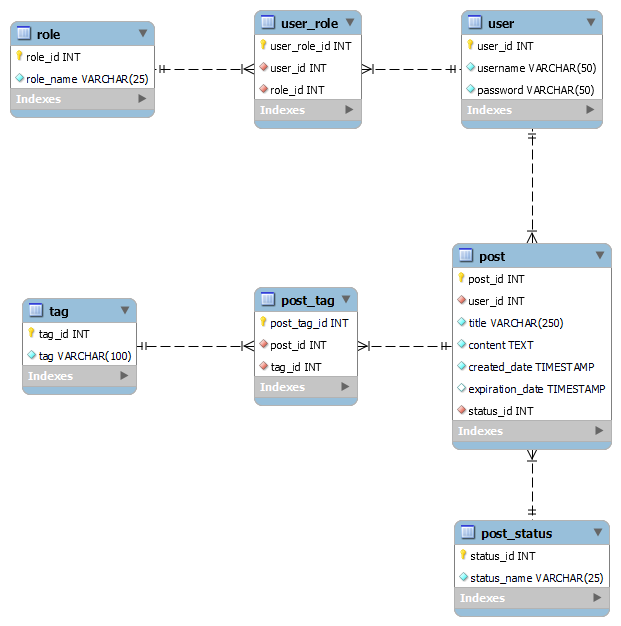
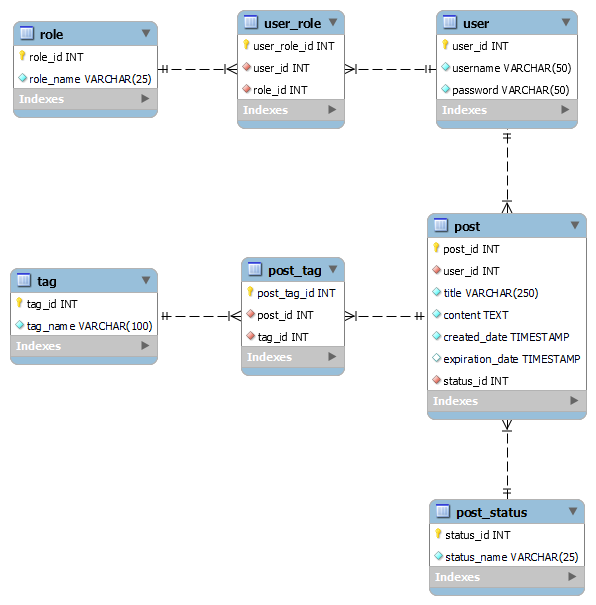
update to tag table (tag_name instead of just tag), updated ERD and entity, changed in all related places. tags working on content page

Changed region(s): [[0.0, 0.0, 0.9966, 0.9818], [0.0, 0.4165, 0.302, 0.6545], [0.3624, 0.4165, 0.604, 0.6545]]

diff --git a/src/main/resources/templates/content.html b/src/main/resources/templates/content.html
@@ -61,7 +61,9 @@
                         <tr class="bg-info">
                             <th style="width: auto"><strong>Created Date</strong></th>
                             <th style="width: auto"><strong>Title</strong></th>
-                            <th style="width: auto"><strong>Post Body</strong></th>
+                            <th style="width: auto"><strong>Post Content</strong></th>
+                            <th style="width: auto"><strong>Tags</strong></th>
+
                         </tr>
                     </thead>
                     <tbody>
@@ -69,6 +71,10 @@
                             <th th:text="${post.created_date}">Created_Date</th>
                             <td th:text="${post.title}">Title</td>
                             <td th:text="${post.content}">Content</td>
+                            <td>
+                                <span th:each="tag,iterState : ${post.tags}"
+                                      th:text="${tag.tag_name} + ${!iterState.last ? ', ' : ''}"></span>
+                            </td>
                         </tr>
                     </tbody>
                 </table>

diff --git a/src/test/java/com/ContentMgtSystem/Blog/repositories/Tests/PostRepositoryTest.java b/src/test/java/com/ContentMgtSystem/Blog/repositories/Tests/PostRepositoryTest.java
@@ -90,10 +90,10 @@ public class PostRepositoryTest {
         Timestamp newTimeStamp2 = Timestamp.valueOf(testTimestampExpiration);
 
         Tag tag1 = new Tag();
-        tag1.setTag("TestTag1");
+        tag1.setTag_name("TestTag1");
         tagRepository.save(tag1);
         Tag tag2 = new Tag();
-        tag2.setTag("TestTag2");
+        tag2.setTag_name("TestTag2");
         tagRepository.save(tag2);
 
         List <Tag> allTags = tagRepository.findAll();
@@ -125,10 +125,10 @@ public class PostRepositoryTest {
         Timestamp newTimeStamp22 = Timestamp.valueOf(testTimestampExpiration2);
 
         Tag tag12 = new Tag();
-        tag12.setTag("TestTag12");
+        tag12.setTag_name("TestTag12");
         tagRepository.save(tag12);
         Tag tag22 = new Tag();
-        tag22.setTag("TestTag22");
+        tag22.setTag_name("TestTag22");
         tagRepository.save(tag22);
 
         List <Tag> allTags2 = tagRepository.findAll();
@@ -173,10 +173,10 @@ public class PostRepositoryTest {
         Timestamp newTimeStamp2 = Timestamp.valueOf(testTimestampExpiration);
 
         Tag tag1 = new Tag();
-        tag1.setTag("TestTag1");
+        tag1.setTag_name("TestTag1");
         tagRepository.save(tag1);
         Tag tag2 = new Tag();
-        tag2.setTag("TestTag2");
+        tag2.setTag_name("TestTag2");
         tagRepository.save(tag2);
 
         List<Tag> allTags = tagRepository.findAll();
@@ -208,10 +208,10 @@ public class PostRepositoryTest {
         Timestamp newTimeStamp22 = Timestamp.valueOf(testTimestampExpiration2);
 
         Tag tag12 = new Tag();
-        tag12.setTag("TestTag12");
+        tag12.setTag_name("TestTag12");
         tagRepository.save(tag12);
         Tag tag22 = new Tag();
-        tag22.setTag("TestTag22");
+        tag22.setTag_name("TestTag22");
         tagRepository.save(tag22);
 
         List <Tag> allTags2 = tagRepository.findAll();
@@ -260,10 +260,10 @@ public class PostRepositoryTest {
         Timestamp newTimeStamp2 = Timestamp.valueOf(testTimestampExpiration);
 
         Tag tag1 = new Tag();
-        tag1.setTag("TestTag1");
+        tag1.setTag_name("TestTag1");
         tagRepository.save(tag1);
         Tag tag2 = new Tag();
-        tag2.setTag("TestTag2");
+        tag2.setTag_name("TestTag2");
         tagRepository.save(tag2);
 
         List <Tag> allTags = tagRepository.findAll();
@@ -295,10 +295,10 @@ public class PostRepositoryTest {
         Timestamp newTimeStamp22 = Timestamp.valueOf(testTimestampExpiration2);
 
         Tag tag12 = new Tag();
-        tag12.setTag("TestTag12");
+        tag12.setTag_name("TestTag12");
         tagRepository.save(tag12);
         Tag tag22 = new Tag();
-        tag22.setTag("TestTag22");
+        tag22.setTag_name("TestTag22");
         tagRepository.save(tag22);
 
         List <Tag> allTags2 = tagRepository.findAll();

diff --git a/src/main/java/com/ContentMgtSystem/Blog/entities/Tag.java b/src/main/java/com/ContentMgtSystem/Blog/entities/Tag.java
@@ -12,7 +12,7 @@ public class Tag {
     private int tag_id;
 
     @Column(nullable = false)
-    private String tag;
+    private String tag_name;
 
     @ManyToMany(mappedBy = "tags")
     private List<Post> posts;
@@ -25,12 +25,12 @@ public class Tag {
         this.tag_id = tag_id;
     }
 
-    public String getTag() {
-        return tag;
+    public String getTag_name() {
+        return tag_name;
     }
 
-    public void setTag(String tag) {
-        this.tag = tag;
+    public void setTag_name(String tag_name) {
+        this.tag_name = tag_name;
     }
 
     public List<Post> getPosts() {
@@ -47,12 +47,12 @@ public class Tag {
         if (o == null || getClass() != o.getClass()) return false;
         Tag tag1 = (Tag) o;
         return tag_id == tag1.tag_id
-                && Objects.equals(tag, tag1.tag)
+                && Objects.equals(tag_name, tag1.tag_name)
                 && Objects.equals(posts, tag1.posts);
     }
 
     @Override
     public int hashCode() {
-        return Objects.hash(tag_id, tag, posts);
+        return Objects.hash(tag_id, tag_name, posts);
     }
 }

diff --git a/src/main/java/com/ContentMgtSystem/Blog/controllers/MainController.java b/src/main/java/com/ContentMgtSystem/Blog/controllers/MainController.java
@@ -85,6 +85,7 @@ public class MainController {
     public String viewAllPosts(HttpServletRequest request, Model model) {
         model.addAttribute("posts",
                 postRepository.findAllNotExpired());
+        model.addAttribute("tags", tagRepository.findAll());
         navDisplay(model, request);
         return "content";
     }
@@ -128,7 +129,7 @@ public class MainController {
             for (String tagString : tagArray) {
                 if (tagRepository.findStringByContent(tagString) == null) {
                     Tag newTag = new Tag();
-                    newTag.setTag(tagString);
+                    newTag.setTag_name(tagString);
                     thisPostTags.add(newTag);
                     tagRepository.save(newTag);
                 }
